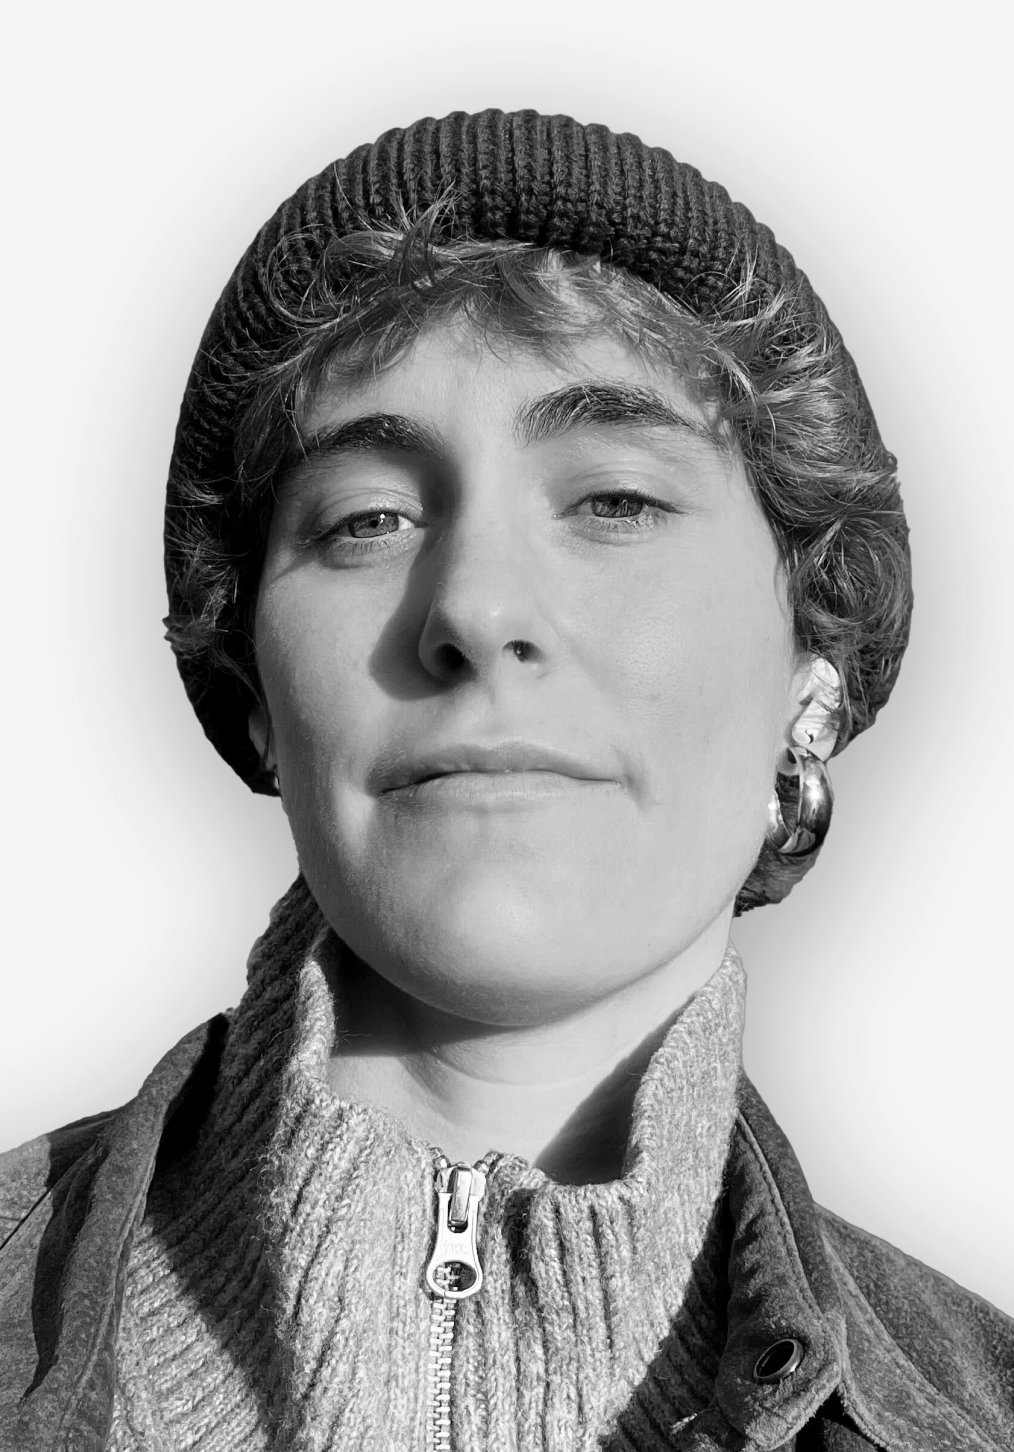
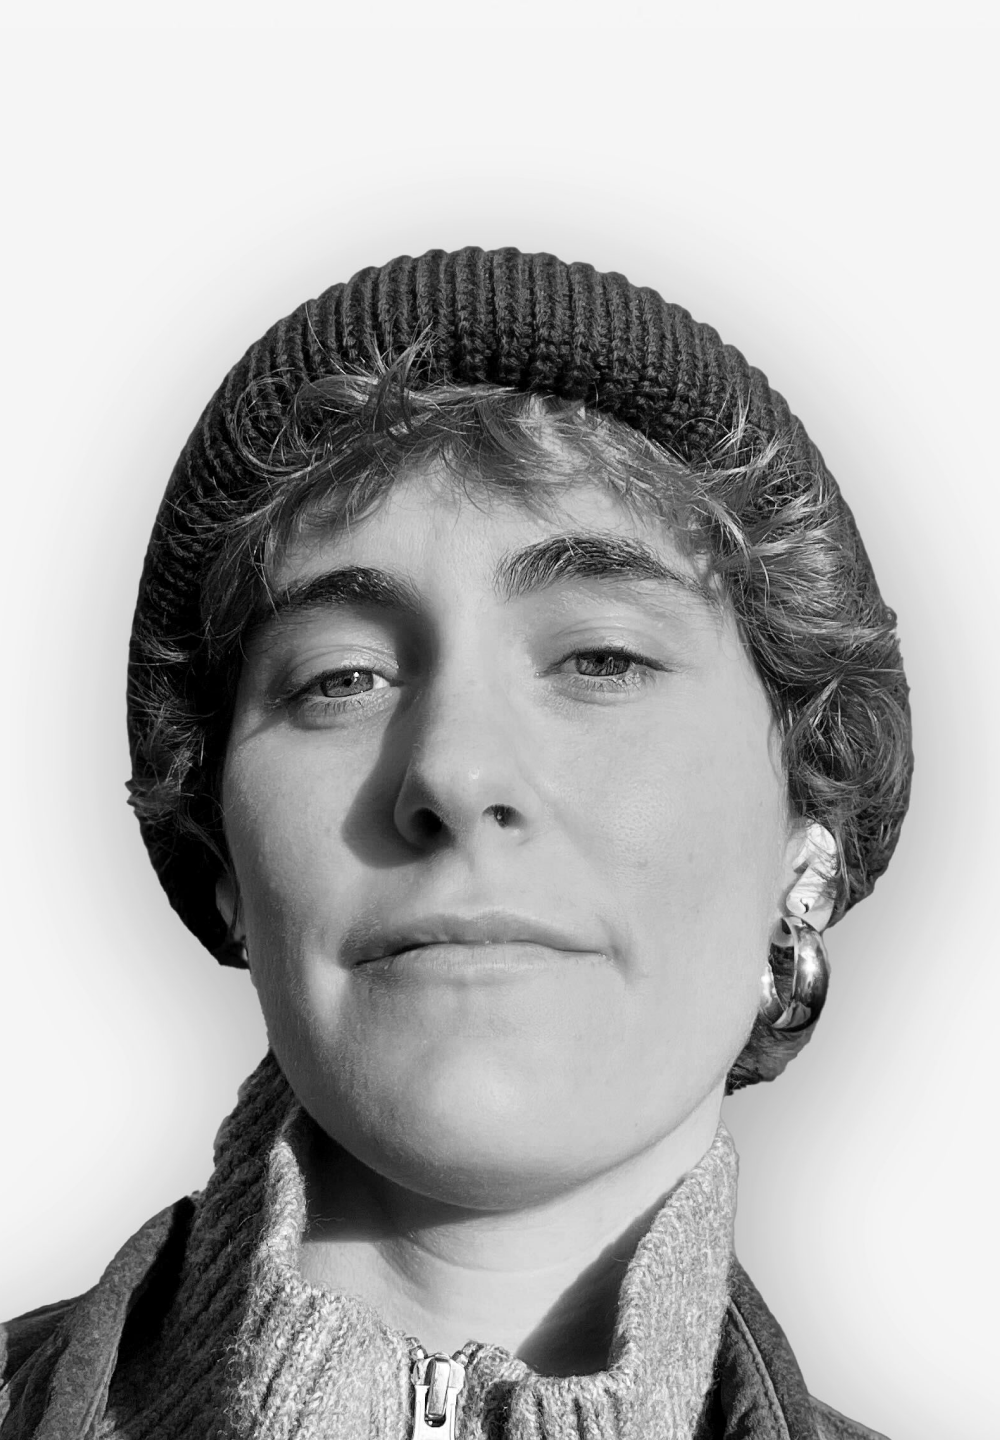
Speakers photos update

diff --git a/styles/styles-mob.css b/styles/styles-mob.css
@@ -7,7 +7,9 @@
   /* SECTIONS */
 
 
-
+h1{
+  font-size: 4.8rem;
+}
   p {
     font-size: 2.2rem;
     width: 100%;
@@ -70,12 +72,12 @@
   }
 
   .sectionName .caption {
-    font-size: 1.7rem;
+    font-size: 1.4rem;
     padding-top: 0.7rem;
   }
 
   .caption {
-    font-size: 1.7rem;
+    font-size: 1.4rem;
   }
 
 
@@ -101,10 +103,14 @@
 
   .speakersItem img {
     width: 100%;
-    height: 70vh;
-    object-position: 25% 25%;
+    height: 70rem;
+    object-position: 25% 50%;
     object-fit: cover;
     margin-bottom: 0.5rem;
+  }
+
+  .noname{
+    height: 70rem;
   }
 
   .speakersName{
@@ -284,11 +290,11 @@
 }
 
 .sponsorItem img {
-  height: 40px!important;
+  height: 25px!important;
 }
 
 .sponsorsGrid .caption{
-  font-size: 1.6rem;
+  font-size: 1.4rem;
   width: fit-content;
 }
 

diff --git a/index.html b/index.html
@@ -123,7 +123,7 @@
             </div>
 
             <div class="speakersItem"><a href="speakers/nadjaKelm.html">
-                <img src="images/speakers/Nadja.jpg">
+                <img src="images/speakers/Nadja.png">
                 <div class="speakersName">
                     <h3>Nadja</h3>
                     <h3>Kelm</h3>
@@ -135,7 +135,7 @@
             </div>
 
             <div class="speakersItem"><a href="speakers/cliveRichards.html">
-                <img src="images/speakers/Clive.png">
+                <img id="clive" src="images/speakers/Clive.png">
                 <div class="speakersName">
                     <h3>CLIVE</h3>
                     <h3>Richards</h3>

diff --git a/styles/styles.css b/styles/styles.css
@@ -264,7 +264,7 @@ justify-content: space-between;
 .noname{
   border: 1px solid var(--black);
   width: 100%;
-  height: 70vh;
+  height: 28rem;
   display: flex;
   justify-content: center;
   align-items: center;;
@@ -287,10 +287,13 @@ justify-content: space-between;
 
 .speakersItem img{
   width: 100%;
-  height: 70vh;
-  object-position: 50% 25%; 
+  height: 29rem;
+  object-position: 50% 100%; 
     object-fit:cover;
+}
 
+#clive{
+  object-position: 100% 25%; 
 }
 
 .speakersName{
@@ -759,8 +762,8 @@ nav ul li a:hover {
 
 .sPhoto img{
   width: 100%;
-    height: 65vh; 
-    object-position: 25% 25%; 
+    height: 30rem; 
+    object-position: 0% 60%; 
     object-fit:cover;
 
 }

diff --git a/speakers/nadjaKelm.html b/speakers/nadjaKelm.html
@@ -75,7 +75,7 @@
                 </div>
             </div>
             <div class="sPhoto">
-                <img src="../images/speakers/Nadja.jpg">
+                <img src="../images/speakers/Nadja.png">
             </div>
         </div>
         <div class="sContent">
